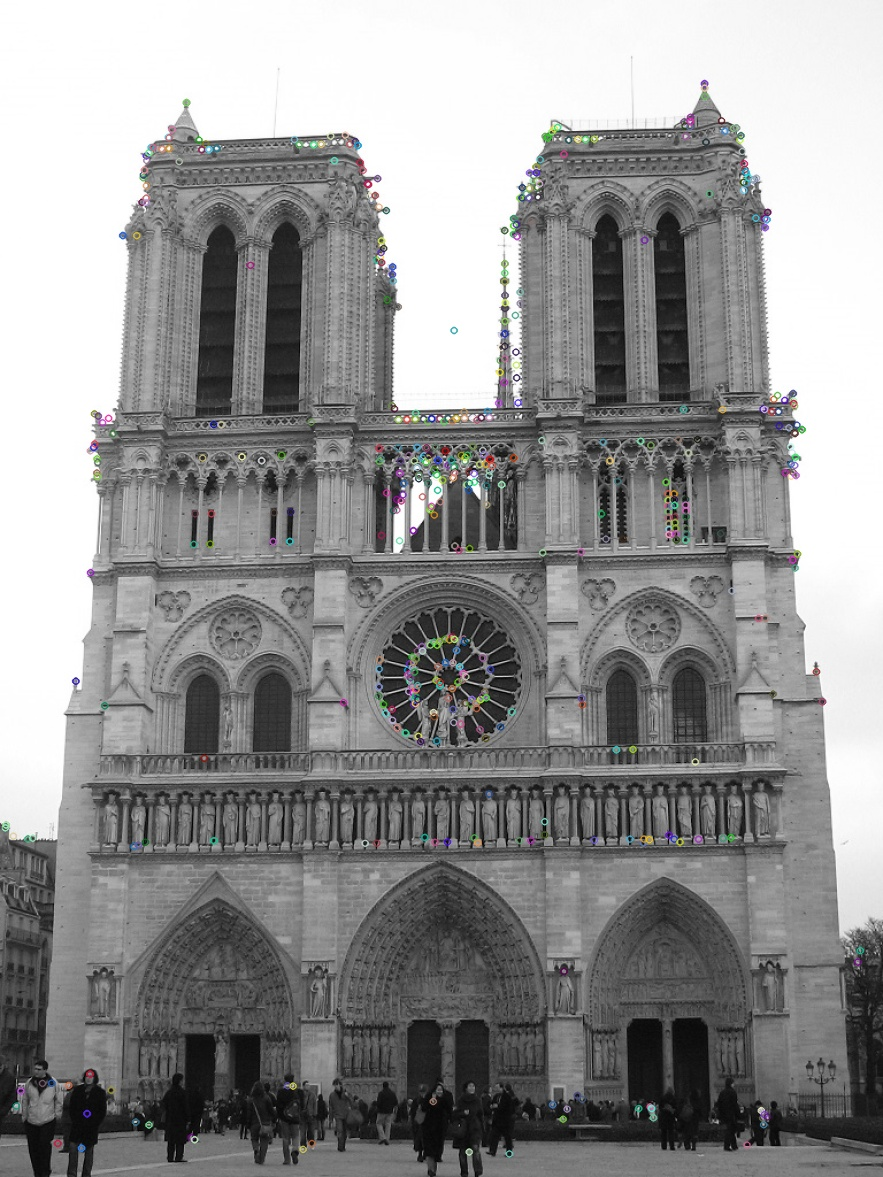
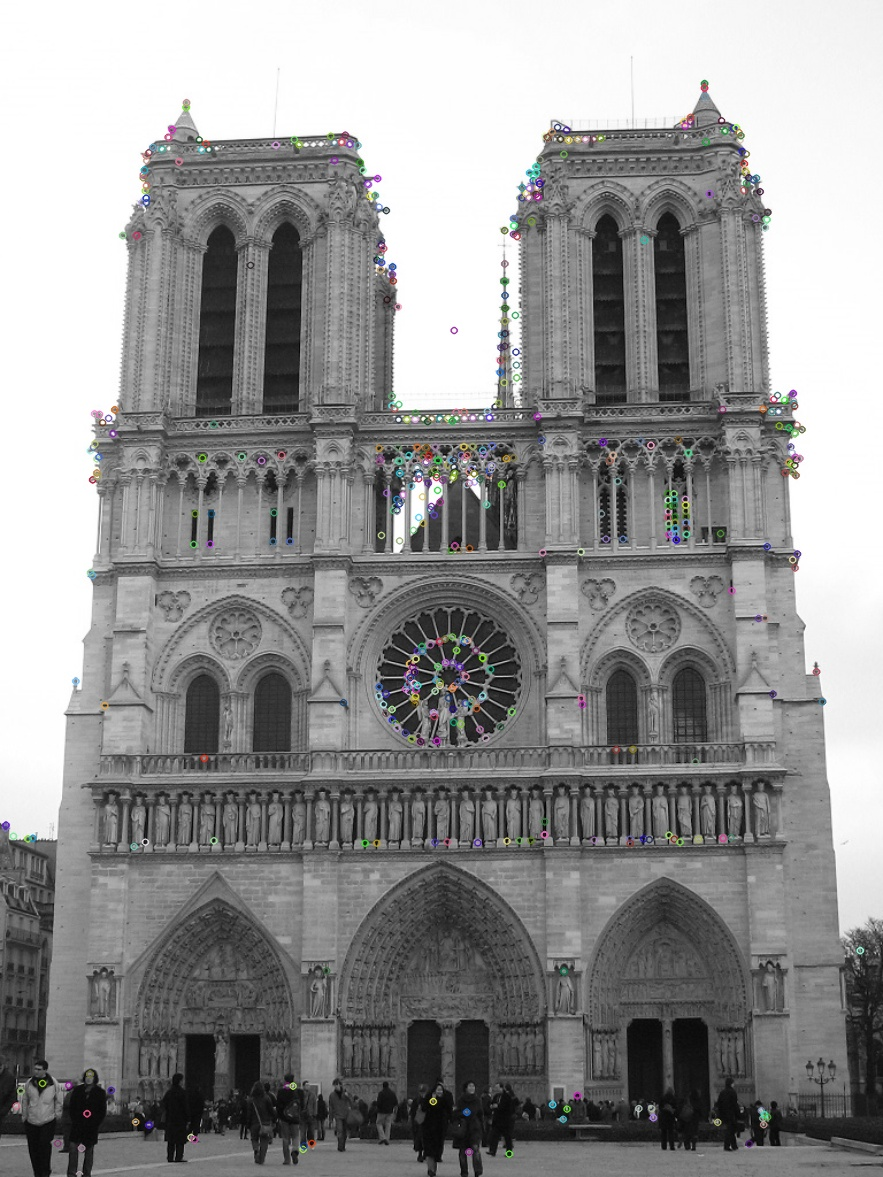
updated part 3

diff --git a/lab2/lab.py b/lab2/lab.py
@@ -1,0 +1,169 @@
+# Task1 Hint: (with sample code for the SIFT detector)
+# Initialize SIFT detector, detect keypoints, store and show SIFT keypoints of original image in a Numpy array
+# Define parameters for SIFT initializations such that we find only 10% of keypoints
+import cv2
+import matplotlib.pyplot as plt
+
+class SiftDetector():
+    def __init__(self, norm="L2", params=None):
+        self.detector=self.get_detector(params)
+        self.norm=norm
+
+    def get_detector(self, params):
+        if params is None:
+            params={}
+            params["n_features"]=0
+            params["n_octave_layers"]=3
+            params["contrast_threshold"]=0.03
+            params["edge_threshold"]=10
+            params["sigma"]=1.6
+
+        detector = cv2.xfeatures2d.SIFT_create(
+                nfeatures=params["n_features"],
+                nOctaveLayers=params["n_octave_layers"],
+                contrastThreshold=params["contrast_threshold"],
+                edgeThreshold=params["edge_threshold"],
+                sigma=params["sigma"])
+
+        return detector
+
+
+
+# Task2 Hint:
+# Upscale the image, compute SIFT features for rescaled image
+# Apply BFMatcher with defined params and ratio test to obtain good matches, and then select and draw best 5 matches
+
+# Task3 Hint: (with sampe code for the rotation)
+# Rotate the image and compute SIFT features for rotated image
+# Apply BFMatcher with defined params and ratio test to obtain good matches, and then select and draw best 5 matches
+import math
+import numpy as np
+import sys
+
+# image: image to rotate
+# x:     x-coordinate of point we wish to rotate around
+# y:     y-coordinate of point we wish to rotate around
+# angle: degrees to rotate image by
+#
+# Returns a rotated copy of the original image
+def rotate(image, x, y, angle):
+    rot_matrix = cv2.getRotationMatrix2D((x, y), angle, 1.0)
+    h, w = image.shape[:2]
+
+    return cv2.warpAffine(image, rot_matrix, (w, h))
+
+# Get coordinates of center point.
+#
+# image:  Image that will be rotated
+# return: (x, y) coordinates of point at center of image
+def get_img_center(image):
+    height, width = image.shape[:2]
+    center = height // 2, width // 2
+
+    return center
+img = cv2.imread('COMP9517_20T2_Lab2_Image.jpg')
+def task1_a(img, name):
+    gray= cv2.cvtColor(img,cv2.COLOR_BGR2GRAY)
+
+    sift = SiftDetector()
+    detector = sift.get_detector(None)
+    
+    kp = detector.detect(gray, None)
+    img = cv2.drawKeypoints(gray,kp,img)
+    cv2.imwrite(name, img)
+
+# task1_a(img.copy(), 'task1_A.jpg')
+def task1_b(img, name):
+    
+    gray= cv2.cvtColor(img,cv2.COLOR_BGR2GRAY)
+
+    sift = SiftDetector()
+    
+    params={}
+    params["n_features"]=0
+    params["n_octave_layers"]=3
+    params["contrast_threshold"]=0.136
+    params["edge_threshold"]=10
+    params["sigma"]=1.6
+
+    detector = sift.get_detector(params)
+    
+    kp = detector.detect(gray, None)
+    print(len(kp))
+    img = cv2.drawKeypoints(gray,kp, img)
+    cv2.imwrite(name, img)
+    return img
+    
+# task1_b(img.copy(), 'task1_B.jpg')
+
+def task1_b_n(img, name):
+    gray= cv2.cvtColor(img,cv2.COLOR_BGR2GRAY)
+
+    sift = SiftDetector()
+    
+    params={}
+    params["n_features"]=620
+    params["n_octave_layers"]=3
+    params["contrast_threshold"]=0.03
+    params["edge_threshold"]=10
+    params["sigma"]=1.6
+
+    detector = sift.get_detector(params)
+    
+    kp = detector.detect(gray, None)
+    img = cv2.drawKeypoints(gray,kp, img)
+    cv2.imwrite(name, img)
+# task1_b_n(img.copy(), 'task1_B_n.jpg')
+
+
+
+def task2(img, name):
+    # part a
+    scale_percent = 115 # percent of original size
+    width = int(img.shape[1] * scale_percent / 100)
+    height = int(img.shape[0] * scale_percent / 100)
+    dim = (width, height)
+    # resize image
+    resized = cv2.resize(img, dim)
+    
+    # part b: increased to 710 from 625
+    resized_image = task1_b(resized, name+'_b.jpg')
+
+    # part c
+
+    # part d
+    img = cv2.cvtColor(img,cv2.COLOR_BGR2GRAY)
+    sift = SiftDetector()
+
+    params = {}
+    params["n_features"] = 0
+    params["n_octave_layers"] = 3
+    params["contrast_threshold"] = 0.136
+    params["edge_threshold"] = 10
+    params["sigma"] = 1.6
+
+    detector = sift.get_detector(params)
+
+    # find the keypoints and descriptors with SIFT
+    kp1, des1 = detector.detectAndCompute(img, None)
+    kp2, des2 = detector.detectAndCompute(resized, None)
+
+
+    # create BFMatcher object
+    bf = cv2.BFMatcher()
+    matches = bf.knnMatch(des1, des2, k=2)
+
+    # # Apply ratio test
+    good = []
+    for m, n in matches:
+        if m.distance < 0.95 * n.distance:
+            good.append([m])
+
+    good = sorted(good, key=lambda x: x[0].distance)
+    # cv2.drawMatchesKnn expects list of lists as matches.
+    img3 = cv2.drawMatchesKnn(img, kp1, resized, kp2, good[:5], img, flags=2)
+    cv2.imwrite(name+'_d.jpg', img3)
+    
+    
+    
+task2(img.copy(), 'task2')
